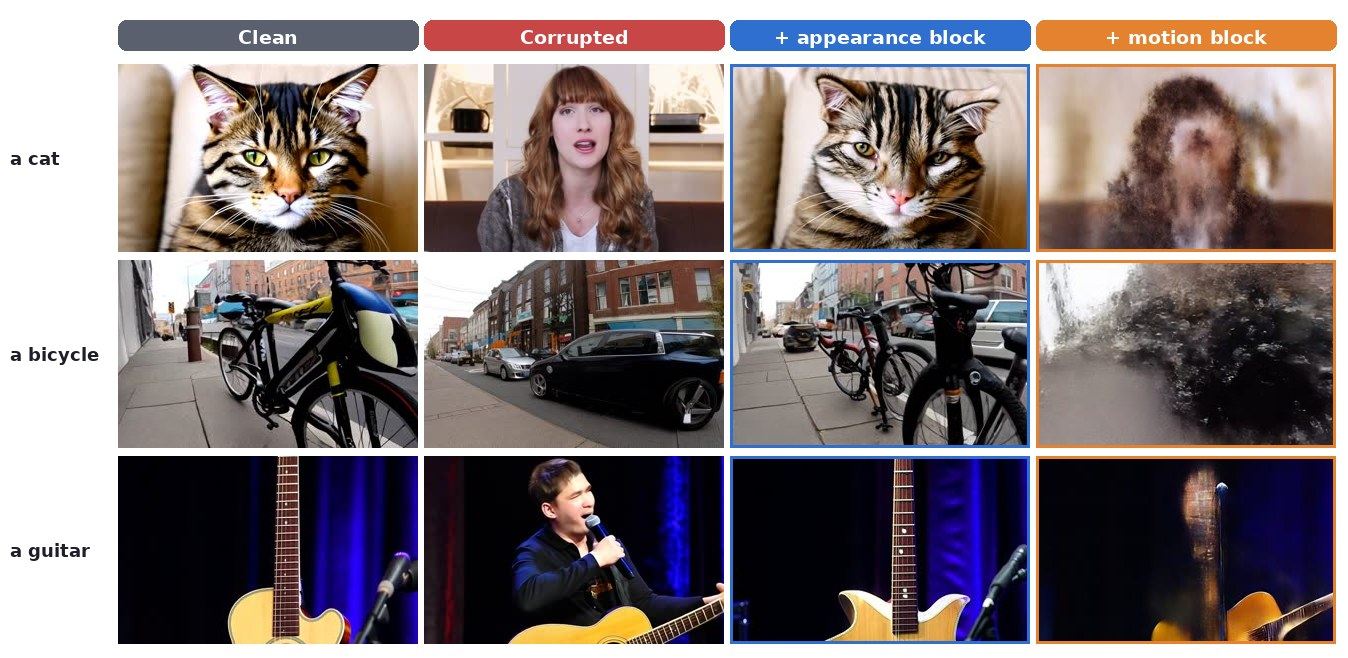
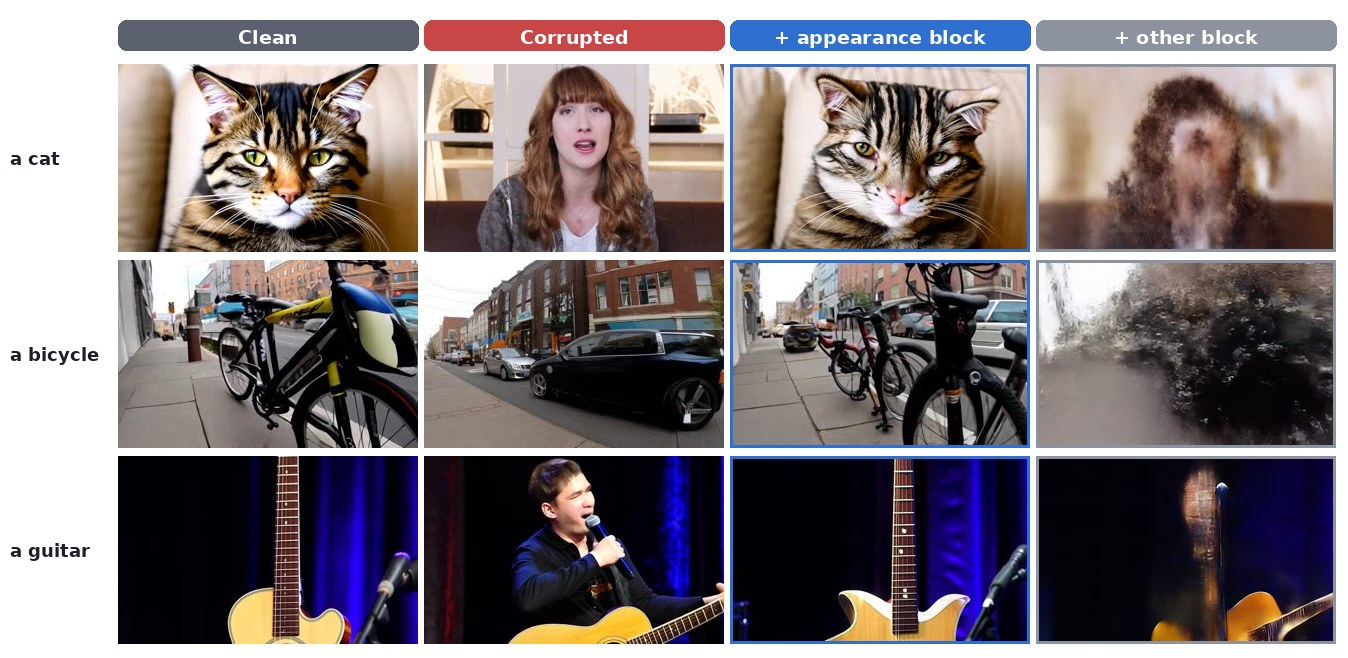
Causal map v2: z_diff lean bars (motion specialists deepest) + core-vs-rest mini-chart
- Point 1 fix: chart shows specialization LEAN (z_app-z_mot), not absolute amount, so
  motion blocks 17/18 are the deepest bars — no 'motion restores less than appearance' read
- Core advantage shown separately: mini grouped bar (core beats rest on BOTH axes)
- Montage 4th column relabeled '+ other block'; add motion filmstrip figure

Changed region(s): [[0.7478, 0.0304, 0.997, 1.0], [0.7478, 0.1824, 0.7789, 0.2128]]

diff --git a/js/causal-map.js b/js/causal-map.js
@@ -1,14 +1,16 @@
-/* B-CAUSE — interactive causal map: per-block appearance(up) / motion(down) bars */
+/* B-CAUSE — interactive causal map: specialization (z_diff) bars + core comparison */
 (function () {
   "use strict";
   const $ = (s, r) => (r || document).querySelector(s);
   const el = (t, c, h) => { const e = document.createElement(t); if (c) e.className = c; if (h != null) e.innerHTML = h; return e; };
+  const NS = "http://www.w3.org/2000/svg";
+  const sv = (t, a) => { const e = document.createElementNS(NS, t); for (const k in a) e.setAttribute(k, a[k]); return e; };
 
   const GC = { core: "#6b40cf", app: "#2f6fd0", mot: "#e5822f", weak: "#b4bac6" };
   const GROUP = {
     core: { label: "Core", cls: "grp-core", desc: "Strong on <b>both</b> axes — the global integrators. Always trained." },
     app:  { label: "Appearance", cls: "grp-app", desc: "Appearance-leaning specialists. <b>Fine-tuned</b> for identity." },
-    mot:  { label: "Motion", cls: "grp-mot", desc: "Motion-leaning specialists. <b>Frozen</b>; used for guidance." },
+    mot:  { label: "Motion", cls: "grp-mot", desc: "Most motion-leaning of all blocks. <b>Frozen</b>; used for guidance." },
     weak: { label: "Weak", cls: "grp-weak", desc: "Below-median / mixed. Excluded from specialist use." },
   };
 
@@ -18,20 +20,13 @@
     const data = await getJSON("data/causal_scores.json");
     if (!data) return;
     const blocks = data.blocks.slice().sort((a, b) => a.block - b.block);
-    const legendEl = $("#cmLegend");
-    const readoutEl = $("#cmReadout");
-    const barsEl = $("#cmBars");
+    const legendEl = $("#cmLegend"), readoutEl = $("#cmReadout"), barsEl = $("#cmBars");
     if (!barsEl) return;
 
-    // range-normalize each axis (zoom into the real range so variation is visible)
-    const qa = blocks.map((b) => b.q_app), qm = blocks.map((b) => b.q_mot);
-    const aLo = Math.min(...qa) - 0.03, aHi = Math.max(...qa);
-    const mLo = Math.min(...qm) - 0.02, mHi = Math.max(...qm);
-    const HALF = 132;
-    const nA = (q) => Math.max(0.04, (q - aLo) / (aHi - aLo)) * HALF;
-    const nM = (q) => Math.max(0.04, (q - mLo) / (mHi - mLo)) * HALF;
-
+    const HALF = 150;
+    const maxAbs = Math.max(0.1, ...blocks.map((b) => Math.abs(b.z_diff)));
     const hidden = new Set();
+
     Object.keys(GROUP).forEach((g) => {
       const n = data.groups[g] ? data.groups[g].blocks.length : 0;
       const chip = el("span", "lg", `<span class="sw" style="background:${GC[g]}"></span>${GROUP[g].label} <span style="color:var(--muted)">(${n})</span>`);
@@ -44,17 +39,42 @@
       legendEl.appendChild(chip);
     });
 
+    // ---- core-vs-rest mini comparison (shows core is strongest on BOTH axes) ----
+    const host = $("#cmCoreCompare");
+    if (host) {
+      const core = blocks.filter((b) => b.group === "core"), rest = blocks.filter((b) => b.group !== "core");
+      const mean = (a, k) => a.reduce((s, b) => s + b[k], 0) / a.length;
+      const cA = mean(core, "q_app"), rA = mean(rest, "q_app"), cM = mean(core, "q_mot"), rM = mean(rest, "q_mot");
+      const W = 300, H = 132, base = 104, bw = 30, maxV = 1.0;
+      const s = sv("svg", { viewBox: `0 0 ${W} ${H}`, class: "cm-mini" });
+      // legend
+      s.appendChild(sv("rect", { x: 150, y: 6, width: 11, height: 11, rx: 2, fill: GC.core }));
+      const lc = sv("text", { x: 165, y: 15, class: "cm-mini-leg", fill: GC.core }); lc.textContent = "core"; s.appendChild(lc);
+      s.appendChild(sv("rect", { x: 205, y: 6, width: 11, height: 11, rx: 2, fill: "#cfd4dd" }));
+      const lr = sv("text", { x: 220, y: 15, class: "cm-mini-leg", fill: "#9096a4" }); lr.textContent = "rest"; s.appendChild(lr);
+      const groups = [{ x: 66, lab: "Appearance", c: cA, r: rA }, { x: 196, lab: "Motion", c: cM, r: rM }];
+      groups.forEach((g) => {
+        const hc = g.c / maxV * 80, hr = g.r / maxV * 80;
+        s.appendChild(sv("rect", { x: g.x - bw - 4, y: base - hr, width: bw, height: hr, rx: 3, fill: "#cfd4dd" }));
+        s.appendChild(sv("rect", { x: g.x + 4, y: base - hc, width: bw, height: hc, rx: 3, fill: GC.core }));
+        const t1 = sv("text", { x: g.x - bw + 11, y: base - hr - 4, class: "cm-mini-v", "text-anchor": "middle" }); t1.textContent = g.r.toFixed(2); s.appendChild(t1);
+        const t2 = sv("text", { x: g.x + bw - 15, y: base - hc - 4, class: "cm-mini-v core", "text-anchor": "middle" }); t2.textContent = g.c.toFixed(2); s.appendChild(t2);
+        const gl = sv("text", { x: g.x, y: base + 16, class: "cm-mini-lab", "text-anchor": "middle" }); gl.textContent = g.lab; s.appendChild(gl);
+      });
+      host.appendChild(s);
+    }
+
+    // ---- specialization bars (z_diff): up = appearance-leaning, down = motion-leaning ----
     const cols = [];
     blocks.forEach((b) => {
       const isCore = b.group === "core";
       const col = el("div", "cm-col" + (isCore ? " core" : ""));
-      col.dataset.block = b.block; col.dataset.group = b.group;
-      if (isCore) col.appendChild(el("div", "cm-coreband"));
-      const up = el("div", "cm-half up");
-      const down = el("div", "cm-half down");
-      const bu = el("div", "bar"); bu.style.height = nA(b.q_app) + "px"; bu.style.background = GC[b.group];
-      const bd = el("div", "bar"); bd.style.height = nM(b.q_mot) + "px"; bd.style.background = GC[b.group];
-      up.appendChild(bu); down.appendChild(bd);
+      col.dataset.block = b.block;
+      const up = el("div", "cm-half up"), down = el("div", "cm-half down");
+      const bar = el("div", "bar");
+      bar.style.height = (Math.abs(b.z_diff) / maxAbs * HALF) + "px";
+      bar.style.background = GC[b.group];
+      (b.z_diff >= 0 ? up : down).appendChild(bar);
       if (isCore) col.appendChild(el("div", "cm-star", "&#9670;"));
       const lbl = el("div", "lbl", (b.block % 4 === 0 || isCore) ? b.block : "");
       col.appendChild(up); col.appendChild(down); col.appendChild(lbl);

diff --git a/index.html b/index.html
@@ -86,20 +86,27 @@
     <p class="eyebrow">Signature analysis &middot; interactive</p>
     <h2 class="section-title">A causal map of all 42 blocks</h2>
     <p class="section-lead">
-      For every block we run a <b>clean &rarr; corrupted &rarr; restored</b> trio and measure how much restoring
-      it recovers &mdash; <span class="hl-app">appearance</span> (up bars, 30 object subjects) and
-      <span class="hl-mot">motion</span> (down bars, 30 action subjects). A handful of
-      <span style="color:var(--core);font-weight:600">core</span> blocks (&#9670;) restore <b>both</b> strongly &mdash;
-      the shared backbone &mdash; while the rest lean toward appearance or motion.
+      For every block we run a <b>clean &rarr; corrupted &rarr; restored</b> trio, measuring how much restoring it
+      recovers <span class="hl-app">appearance</span> (30 object subjects) and <span class="hl-mot">motion</span>
+      (30 action subjects). A separate handful of <span style="color:var(--core);font-weight:600">core</span> blocks
+      rank top-5 on <b>both</b> axes; every other block <em>leans</em> one way &mdash; and that lean is what the chart shows.
       <b>Hover a block</b> to see its role.
     </p>
 
     <div class="cm-legend" id="cmLegend"></div>
 
+    <div class="cm-corebox">
+      <div class="cb-text">
+        <div class="cb-title"><span style="color:var(--core)">&#9670;</span> The 5 core blocks &mdash; 1 &middot; 14 &middot; 19 &middot; 20 &middot; 23</div>
+        <p>Rank top-5 on <b>both</b> axes: the strongest restorers overall and the shared backbone we always train. Averaged across subjects, they beat the rest on appearance <b>and</b> motion &rarr;</p>
+      </div>
+      <div class="cb-chart" id="cmCoreCompare"></div>
+    </div>
+
     <div class="cm-dirlegend">
-      <span class="up">&#9650; appearance restored</span>
-      <span class="down">&#9660; motion restored</span>
-      <span class="nrm"><span style="color:var(--core)">&#9670;</span> core &mdash; strong on both</span>
+      <span class="up">&#9650; appearance-leaning</span>
+      <span class="down">&#9660; motion-leaning</span>
+      <span class="nrm">bar = how strongly a block leans (z<sub>app</sub>&minus;z<sub>mot</sub>) &nbsp;&middot;&nbsp; <span style="color:var(--core)">&#9670;</span> core</span>
     </div>
     <div class="cm-chart">
       <div class="cm-bars" id="cmBars"></div>
@@ -108,8 +115,13 @@
     <div class="cm-readout" id="cmReadout"></div>
 
     <figure class="figure cm-figure">
-      <img src="assets/img/causal_tracing.jpg" alt="Causal tracing: corrupting the prompt turns the subject into something else; restoring an appearance block recovers it, restoring a motion block does not." loading="lazy">
-      <figcaption><b>Causal tracing in action.</b> Corrupting the prompt embedding turns the subject into something else (a cat&rarr;a person, a bicycle&rarr;cars). Reinserting a single <span class="hl-app">appearance block</span>'s clean activation restores the subject; a <span class="hl-mot">motion block</span> does not &mdash; appearance is causally localized to specific blocks.</figcaption>
+      <img src="assets/img/causal_tracing.jpg" alt="Causal tracing: corrupting the prompt turns the subject into something else; restoring an appearance block recovers it, restoring another block does not." loading="lazy">
+      <figcaption><b>Appearance is localized.</b> Corrupting the prompt embedding turns the subject into something else (a cat&rarr;a person, a bicycle&rarr;cars). Reinserting a single <span class="hl-app">appearance block</span>'s clean activation restores the subject; another block does not &mdash; appearance is causally localized to specific blocks.</figcaption>
+    </figure>
+
+    <figure class="figure cm-figure">
+      <img src="assets/img/motion_tracing.jpg" alt="Motion tracing filmstrip: restoring a strong motion block reintroduces the running gait across frames, while a weak block leaves the subject frozen." loading="lazy">
+      <figcaption><b>Motion is localized too &mdash; but you only see it across frames.</b> On an action prompt, restoring a strong <span class="hl-mot">motion block</span> reintroduces the running gait, while a weak block leaves the subject frozen. A single frame can't show this; the motion signal lives in the change between frames.</figcaption>
     </figure>
   </div>
 </section>

diff --git a/css/style.css b/css/style.css
@@ -176,7 +176,7 @@ h2.section-title {
 }
 .cm-bars { display: flex; align-items: stretch; gap: 3px; min-width: 620px; position: relative; }
 .cm-col { flex: 1 1 0; display: flex; flex-direction: column; cursor: pointer; position: relative; }
-.cm-half { height: 132px; width: 100%; display: flex; justify-content: center; position: relative; z-index: 1; }
+.cm-half { height: 150px; width: 100%; display: flex; justify-content: center; position: relative; z-index: 1; }
 .cm-half.up { align-items: flex-end; }
 .cm-half.down { align-items: flex-start; }
 .cm-half .bar { position: relative; width: 60%; min-height: 1.5px; transition: opacity .15s, filter .15s; }
@@ -192,8 +192,24 @@ h2.section-title {
 .cm-half.up .cm-dot { top: 0; transform: translate(-50%, -50%); }
 .cm-half.down .cm-dot { bottom: 0; transform: translate(-50%, 50%); }
 .cm-col.dim .cm-dot { opacity: .14; }
-.cm-baseline { position: absolute; left: 0; right: 0; top: 132px; height: 0;
+.cm-baseline { position: absolute; left: 0; right: 0; top: 150px; height: 0;
   border-top: 1.5px solid var(--hairline-strong); pointer-events: none; z-index: 1; }
+
+/* core-vs-rest callout */
+.cm-corebox { display: flex; gap: 24px; align-items: center; justify-content: space-between;
+  background: linear-gradient(180deg, #faf8ff, #fbfbfd); border: 1px solid #e8e3f6;
+  border-radius: var(--radius); padding: 16px 22px; margin: 4px 0 22px; box-shadow: var(--shadow-sm); }
+.cm-corebox .cb-text { max-width: 60ch; }
+.cm-corebox .cb-title { font-family: var(--serif); font-size: 18px; font-weight: 600; margin-bottom: 5px; }
+.cm-corebox .cb-text p { font-size: 14px; color: var(--ink-2); margin: 0; line-height: 1.55; }
+.cm-corebox .cb-chart { flex: 0 0 300px; }
+.cm-mini { width: 300px; height: auto; display: block; }
+.cm-mini-v { font-family: var(--mono); font-size: 11px; fill: var(--muted); }
+.cm-mini-v.core { fill: var(--core); font-weight: 700; }
+.cm-mini-lab { font-family: var(--sans); font-size: 12px; font-weight: 600; fill: var(--ink-2); }
+.cm-mini-leg { font-family: var(--sans); font-size: 11px; font-weight: 600; }
+@media (max-width: 820px) { .cm-corebox { flex-direction: column; align-items: stretch; }
+  .cm-corebox .cb-chart { flex: none; } .cm-mini { margin: 0 auto; } }
 .cm-col .lbl { font-size: 9px; color: var(--muted); margin-top: 5px; font-family: var(--mono);
   line-height: 1; height: 10px; text-align: center; }
 .cm-col.dim .bar { opacity: .12; }
